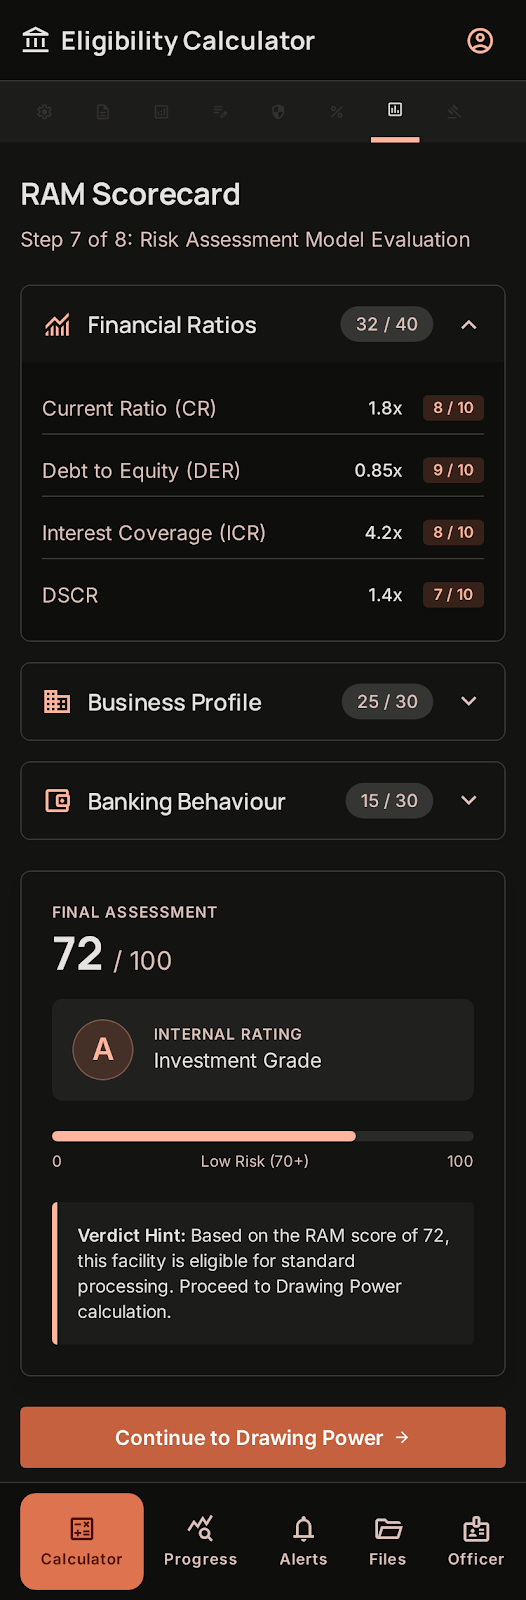
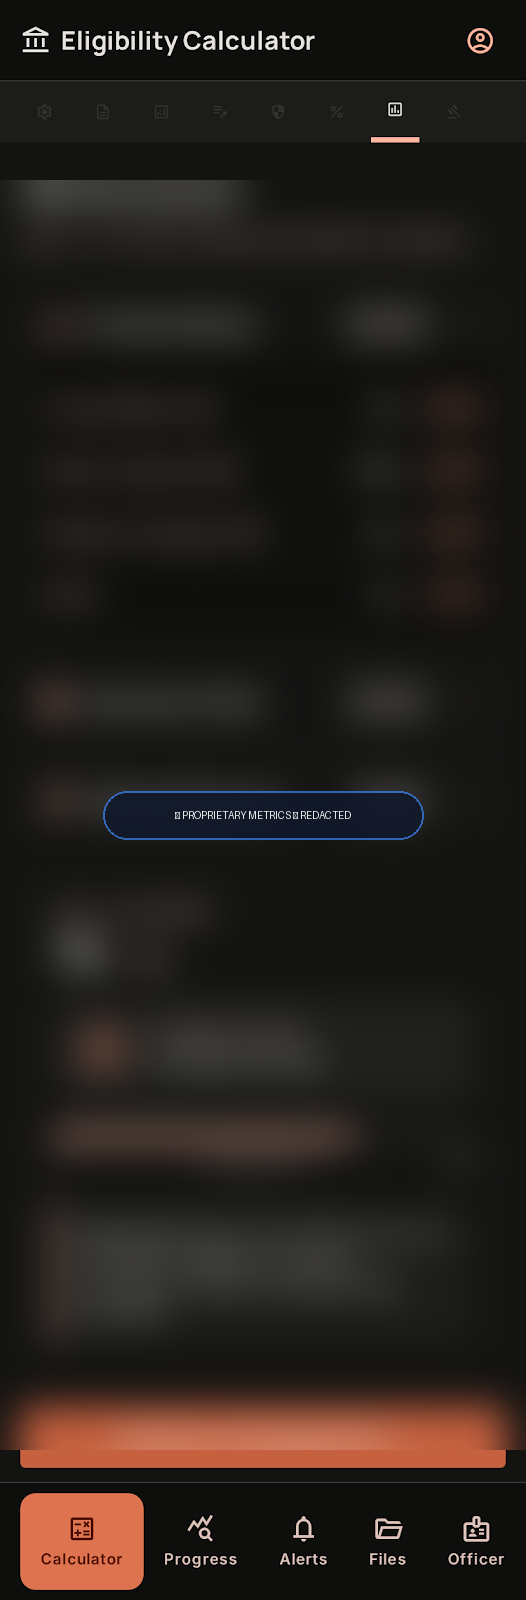
security: redact proprietary ratios and sanitize RAM scorecard details from screenshots and docs

diff --git a/docs/UNDERWRITING_METHODOLOGY.md b/docs/UNDERWRITING_METHODOLOGY.md
@@ -1,85 +1,85 @@
-# 📐 Underwriting & Credit Risk Scoring Methodology
+# 📐 Underwriting & Credit Risk Scoring Framework
 
-## **Mathematical Framework & Regulatory Credit Appraisal Architecture**
+## **Institutional Commercial Credit Appraisal Architecture**
+
+> [!IMPORTANT]
+> **Confidential & Proprietary Framework**  
+> Exact mathematical weights, proprietary multi-factor ratio deduction algorithms, scoring thresholds, and calibrated risk rubrics are confidential intellectual property. This document provides a high-level overview of the underwriting dimensions evaluated by the engine.
 
 ---
 
-## 1. The 100-Point Financial-Statement-Driven RAM Scorecard
+## 1. Credit Risk Assessment Model (RAM) Architecture
 
-The platform employs a deterministic 100-point credit risk model calibrated exclusively on audited financial statements, solvency metrics, and fundamental business efficiency.
+The platform evaluates commercial borrowers across three core quantitative pillars derived from multi-year audited financial statements:
 
 ```
-Total RAM Score = [ Financial Performance (60 pts) ] + [ Capital Structure & Solvency (25 pts) ] + [ Business Fundamentals (15 pts) ]
+Total Credit Assessment = [ Pillar 1: Financial Performance & Cash Flow ] 
+                         + [ Pillar 2: Capital Structure & Solvency ] 
+                         + [ Pillar 3: Business Fundamentals & Operating Efficiency ]
 ```
 
 ---
 
-### Category 1: Financial Performance & Cash Flow (60 Points Max)
+### Pillar 1: Financial Performance & Cash Flow
+*Focuses on operational profitability, debt servicing adequacy, and cash generation capability.*
 
-| Parameter | Formula / Basis | Max Points | Optimal Benchmark | Risk Deduction Logic |
-| :--- | :--- | :---: | :--- | :--- |
-| **Current Ratio (CR)** | $\text{Current Assets} / \text{Current Liabilities}$ | **10 pts** | $\ge 1.33$ | $1.20 - 1.33 \rightarrow 7\text{ pts}$, $1.00 - 1.20 \rightarrow 4\text{ pts}$, $< 1.00 \rightarrow 0\text{ pts}$ |
-| **Debt Service Coverage Ratio (DSCR)** | $\frac{\text{PAT} + \text{Deprec.} + \text{Interest}}{\text{Principal Repayment} + \text{Interest}}$ | **10 pts** | $\ge 1.75$ | $1.50 - 1.75 \rightarrow 8\text{ pts}$, $1.20 - 1.50 \rightarrow 5\text{ pts}$, $< 1.20 \rightarrow 0\text{ pts}$ |
-| **Operating Profit Margin (OPM)** | $\text{EBITDA} / \text{Revenue} \times 100$ | **10 pts** | $\ge 15\%$ | $10\% - 15\% \rightarrow 7\text{ pts}$, $5\% - 10\% \rightarrow 4\text{ pts}$, $< 5\% \rightarrow 0\text{ pts}$ |
-| **Interest Service Coverage (ISCR)** | $\text{EBIT} / \text{Interest Expense}$ | **10 pts** | $\ge 3.0$ | $2.0 - 3.0 \rightarrow 7\text{ pts}$, $1.5 - 2.0 \rightarrow 4\text{ pts}$, $< 1.5 \rightarrow 0\text{ pts}$ |
-| **Revenue Growth & 3Y CAGR** | $(\text{Rev}_{FY} - \text{Rev}_{FY-1}) / \text{Rev}_{FY-1}$ | **8 pts** | $\ge 15\%$ | $8\% - 15\% \rightarrow 5\text{ pts}$, $0\% - 8\% \rightarrow 3\text{ pts}$, Negative $\rightarrow 0\text{ pts}$ |
-| **Return on Capital Employed (ROCE)** | $\text{EBIT} / (\text{Total Assets} - \text{Current Liabilities})$ | **7 pts** | $\ge 18\%$ | $12\% - 18\% \rightarrow 5\text{ pts}$, $8\% - 12\% \rightarrow 3\text{ pts}$, $< 8\% \rightarrow 0\text{ pts}$ |
-| **CFO to Total Debt** | $\text{Cash Flow from Operations} / \text{Total Debt}$ | **5 pts** | $\ge 25\%$ | $15\% - 25\% \rightarrow 3\text{ pts}$, $< 15\% \rightarrow 0\text{ pts}$ |
+- **Liquidity Health:** Multi-tier liquidity assessment evaluating short-term obligation coverage and buffer against working capital shocks.
+- **Debt Service Capability:** Comprehensive coverage analysis evaluating operating cash flows against principal amortization and interest service liabilities.
+- **Operating Profitability & Margins:** Trend analysis of operating profit margins (EBITDA), revenue quality, and gross profitability.
+- **Revenue Trajectory & Growth:** Multi-year compound annual growth rate (CAGR) and year-on-year expansion velocity.
+- **Capital Return Efficiency:** Assessment of return on capital employed (ROCE) and asset efficiency.
+- **Operating Cash Flow Quality:** Quality of earnings assessment comparing cash flow from operations (CFO) against total financial debt.
 
 ---
 
-### Category 2: Capital Structure & Solvency (25 Points Max)
+### Pillar 2: Capital Structure & Solvency
+*Focuses on balance sheet leverage, capital adequacy, and long-term financial stability.*
 
-| Parameter | Formula / Basis | Max Points | Optimal Benchmark | Risk Deduction Logic |
-| :--- | :--- | :---: | :--- | :--- |
-| **TOL / ATNW** | $\text{Total Outside Liabilities} / \text{Adjusted Tangible Net Worth}$ | **10 pts** | $\le 2.50$ | $2.50 - 3.50 \rightarrow 7\text{ pts}$, $3.50 - 4.50 \rightarrow 3\text{ pts}$, $> 4.50 \rightarrow 0\text{ pts}$ |
-| **Debt to Equity Ratio** | $\text{Total Long-Term Debt} / \text{Tangible Net Worth}$ | **6 pts** | $\le 1.50$ | $1.50 - 2.50 \rightarrow 4\text{ pts}$, $> 2.50 \rightarrow 0\text{ pts}$ |
-| **Net Worth Buffer** | Absolute Tangible Net Worth (ATNW) | **5 pts** | $\ge ₹10\text{ Cr}$ | $₹5\text{Cr} - ₹10\text{Cr} \rightarrow 3\text{ pts}$, $< ₹5\text{Cr} \rightarrow 1\text{ pt}$ |
-| **Debt to EBITDA Multiple** | $\text{Total Debt} / \text{EBITDA}$ | **4 pts** | $\le 3.0\times$ | $3.0\times - 4.5\times \rightarrow 2\text{ pts}$, $> 4.5\times \rightarrow 0\text{ pts}$ |
-
----
-
-### Category 3: Business Fundamentals & Operating Efficiency (15 Points Max)
-
-| Parameter | Formula / Basis | Max Points | Optimal Benchmark | Risk Deduction Logic |
-| :--- | :--- | :---: | :--- | :--- |
-| **Debtor Collection Days** | $(\text{Trade Receivables} / \text{Revenue}) \times 365$ | **5 pts** | $\le 60\text{ Days}$ | $60 - 90\text{ Days} \rightarrow 3\text{ pts}$, $> 90\text{ Days} \rightarrow 0\text{ pts}$ |
-| **Inventory Holding Days** | $(\text{Inventory} / \text{COGS}) \times 365$ | **4 pts** | $\le 60\text{ Days}$ | $60 - 90\text{ Days} \rightarrow 2\text{ pts}$, $> 90\text{ Days} \rightarrow 0\text{ pts}$ |
-| **Fixed Asset Turnover** | $\text{Revenue} / \text{Net Fixed Assets}$ | **3 pts** | $\ge 4.0\times$ | $2.5\times - 4.0\times \rightarrow 2\text{ pts}$, $< 2.5\times \rightarrow 0\text{ pts}$ |
-| **Operating Cycle Efficiency** | $\text{Debtor Days} + \text{Inventory Days} - \text{Payable Days}$ | **3 pts** | $\le 90\text{ Days}$ | $90 - 120\text{ Days} \rightarrow 2\text{ pts}$, $> 120\text{ Days} \rightarrow 0\text{ pts}$ |
+- **Leverage Multiples:** Comprehensive assessment of outside liabilities relative to adjusted tangible net worth (ATNW).
+- **Gearing & Debt-to-Equity:** Evaluation of long-term debt burden relative to owner capital and equity cushions.
+- **Capital Buffer & Net Worth Strength:** Absolute tangible capital size and capacity to absorb unexpected market shocks.
+- **Debt-to-Operating Earnings:** Multiple of total debt obligations relative to annualized operating EBITDA.
 
 ---
 
-## 2. RAM Risk Grade Classification & Underwriting Directives
+### Pillar 3: Business Fundamentals & Operating Efficiency
+*Focuses on working capital management, cash conversion cycle, and asset utilization.*
 
-| Score Range | RAM Risk Grade | Risk Profile | Underwriting Decision & Covenants |
-| :---: | :--- | :--- | :--- |
-| **80 – 100** | **RAM-1** | Minimal Risk / Prime | **Recommended for Approval**. Eligible for prime lending rates; standard security covenants. |
-| **65 – 79** | **RAM-2** | Low to Moderate Risk | **Recommended for Approval**. Standard pricing; quarterly compliance monitoring. |
-| **50 – 64** | **RAM-3** | Moderate Risk | **Conditional Approval**. Minimum 100% SARFAESI collateral cover; personal promoter guarantee required. |
-| **35 – 49** | **RAM-4** | High Risk | **Credit Committee Escalation**. Requires additional collateral cover ($\ge 125\%$) and monthly drawing power audits. |
-| **< 35** | **RAM-5** | Critical Risk | **Decline / Ineligible**. Fundamental financial weakness or excessive leverage. |
+- **Debtor Velocity & Collection Efficiency:** Assessment of receivables velocity, collection cycles, and customer concentration risk.
+- **Inventory Turnover & Holding Efficiency:** Evaluation of inventory days relative to industry operating norms.
+- **Fixed Asset Productivity:** Operating revenue generated per unit of net fixed productive assets.
+- **Operating Cash Cycle:** Net working capital cycle duration from raw material procurement to cash realization.
 
 ---
 
-## 3. Working Capital & MPBF Engine (Tandon Method II)
+## 2. Risk Grading & Underwriting Directives
 
-The platform evaluates the **Maximum Permissible Bank Finance (MPBF)** according to Reserve Bank of India (RBI) Tandon Committee guidelines:
+The engine maps borrowers into standard institutional credit risk tiers with automated policy recommendations:
 
-$$\text{Working Capital Gap (WCG)} = \text{Total Current Assets (TCA)} - \text{Other Current Liabilities (OCL)}$$
+| Risk Classification | Risk Profile | Underwriting Action |
+| :---: | :--- | :--- |
+| **Tier 1 (Prime)** | Superior financial health, strong solvency, and robust cash flows. | **Recommended for Approval**. Eligible for prime lending rates and standard security covenants. |
+| **Tier 2 (Good)** | Healthy financial ratios with manageable debt levels. | **Recommended for Approval**. Standard pricing with periodic covenant monitoring. |
+| **Tier 3 (Moderate)** | Acceptable credit profile with moderate leverage. | **Conditional Approval**. Enhanced collateralization and promoter guarantees stipulated. |
+| **Tier 4 (Elevated Risk)**| Financial stretch or high leverage detected. | **Credit Committee Escalation**. Requires additional security cover and enhanced monitoring. |
+| **Tier 5 (Critical Risk)**| Severe ratio deterioration or insolvency risk. | **Decline / Ineligible**. Outside standard risk tolerance thresholds. |
 
-$$\text{Minimum Stipulated Net Working Capital (NWC)} = 0.25 \times \text{Total Current Assets (TCA)}$$
+---
 
-$$\text{MPBF (Method II)} = \text{WCG} - \text{Stipulated NWC} = \text{WCG} - (0.25 \times \text{TCA})$$
+## 3. Working Capital & MPBF Assessment (Regulatory Model)
 
-$$\text{Assessed Bank Finance} = \min(\text{MPBF Method II}, \text{Borrower Requested Facility})$$
+The platform evaluates the **Maximum Permissible Bank Finance (MPBF)** according to established regulatory banking norms (Tandon Committee Method II & Turnover Methodologies):
+
+- **Working Capital Gap (WCG):** Evaluated from total current assets less non-bank current liabilities.
+- **Stipulated Net Working Capital (NWC):** Mandatory borrower margin requirement calculated against current asset base.
+- **Assessed Bank Finance:** Deterministic calculation ensuring bank exposure complies strictly with regulatory caps and drawing power limits.
 
 ---
 
 ## 4. Intelligent Schedule Completeness & Fallback Engine
 
-Audited financial reports often arrive with missing schedule annexures (e.g., Debtor Aging Schedule or Inventory Breakdown). Instead of rejecting the application or stalling the underwriter, the engine:
+Audited financial reports frequently arrive with missing schedule annexures. The engine incorporates a resilient fallback framework:
 
-1. **Detects Missing Schedules:** Automatically identifies whether Debtor Schedule, Inventory Schedule, or Fixed Asset Schedule are attached.
-2. **Activates Mathematical Fallback:** Derives debtor velocity from aggregate Balance Sheet trade receivables and revenue.
-3. **Contextual Flagging:** Generates a highlighted recommendation inside the Credit Appraisal Memo (CAM) requesting the underwriter obtain the schedule prior to final loan disbursement.
+1. **Automated Completeness Detection:** Identifies which audited schedules (Debtor Aging, Inventory, Fixed Assets) are attached.
+2. **Deterministic Mathematical Fallbacks:** Uses aggregate balance sheet line items to maintain appraisal continuity without stalling underwriters.
+3. **Contextual Policy Flags:** Generates highlight flags in the final Credit Appraisal Memo (CAM) requesting document submission prior to final loan disbursement.

diff --git a/README.md b/README.md
@@ -119,16 +119,16 @@ flowchart TD
 
 ---
 
-## 🌟 The 100-Point RAM Scorecard Framework
+## 🌟 Proprietary Credit Risk Model (RAM Architecture)
 
-Unlike subjective credit scorecards, our model relies on verified audited financial figures:
+The platform evaluates borrowers across three quantitative pillars derived from multi-year audited financial statements:
 
-| Category | Weight | Key Parameters Evaluated |
-| :--- | :---: | :--- |
-| **Financial Performance & Cash Flow** | **60 Points** | Current Ratio (10 pts), DSCR (10 pts), Operating Profit Margin (10 pts), ISCR (10 pts), Revenue Growth (8 pts), ROCE (7 pts), CFO to Debt (5 pts). |
-| **Capital Structure & Solvency** | **25 Points** | TOL / ATNW (10 pts), Debt-to-Equity (6 pts), Tangible Net Worth Buffer (5 pts), Debt-to-EBITDA Multiple (4 pts). |
-| **Business Fundamentals & Efficiency** | **15 Points** | Debtor Days (5 pts), Inventory Days (4 pts), Fixed Asset Turnover (3 pts), Operating Cycle Efficiency (3 pts). |
-| **Total Benchmark** | **100 Points** | **RAM-1 (80-100)** • **RAM-2 (65-79)** • **RAM-3 (50-64)** • **RAM-4 (35-49)** • **RAM-5 (<35)** |
+| Assessment Pillar | Core Underwriting Focus | Evaluation Dimension |
+| :--- | :--- | :--- |
+| **Financial Performance & Cash Flow** | Operating Profitability, Debt Servicing & Cash Adequacy | Evaluates liquidity buffers, debt service coverage, operating margins, earnings quality, and cash generation velocity. |
+| **Capital Structure & Solvency** | Leverage, Capital Adequacy & Balance Sheet Strength | Evaluates outside liability gearing, adjusted tangible net worth depth, debt-to-equity ratios, and debt burden multiples. |
+| **Business Fundamentals & Efficiency** | Working Capital Management & Asset Turnover | Evaluates receivables velocity, inventory holding efficiency, fixed asset productivity, and net operating cycle duration. |
+| **Risk Grading Model** | **Tier 1 (Prime) ➔ Tier 5 (Critical Risk)** | Automated mapping into standardized credit risk grades with actionable sanction covenants and pricing directives. |
 
 ---
 

diff --git a/docs/PRODUCT_ONE_PAGER.md b/docs/PRODUCT_ONE_PAGER.md
@@ -20,7 +20,7 @@ Commercial loan underwriting for SMEs and mid-market enterprises takes **14 to 2
 
 | Capability | What It Does | Business Impact |
 | :--- | :--- | :--- |
-| **100-Point RAM Scorecard** | Calibrated scoring model across Financial Performance (60 pts), Capital Structure (25 pts), and Business Fundamentals (15 pts). | Objective, standardized, and auditable credit risk rating (RAM 1 to RAM 5). |
+| **Proprietary RAM Scorecard** | Calibrated scoring model across Financial Performance, Capital Structure, and Business Fundamentals. | Objective, standardized, and auditable credit risk rating (Tier 1 to Tier 5). |
 | **Multi-Year Financial Diagnostics** | 3-year comparative balance sheet & P&L spreading with real-time accounting balance validation. | 100% elimination of calculation errors and instant ratio trend detection. |
 | **Schedule Completeness & Fallback Engine** | Granular extraction of CWIP, Intangibles, Trade Payables, and schedule tracking (Debtor Aging, Inventory, Fixed Assets). | Prevents deal roadblocks; provides smart fallback scores with contextual advice. |
 | **Regulatory MPBF Working Capital** | Implements Tandon Committee Method II, Net Working Capital (NWC) gaps, and Drawing Power computations. | Eliminates regulatory non-compliance in working capital sanction limits. |

diff --git a/docs/INVESTOR_PITCH_DECK.md b/docs/INVESTOR_PITCH_DECK.md
@@ -39,7 +39,7 @@ Commercial credit appraisal for SMEs and mid-market corporates remains heavily m
 An institutional-grade credit appraisal suite that automates the end-to-end commercial underwriting lifecycle:
 
 1. **Automated Multi-Year Financial Spreading:** Instantly extracts Balance Sheet, P&L, and Granular Schedules (Debtors, Inventory, Fixed Assets, CWIP, Debt profile) across FY-2, FY-1, and FY.
-2. **100-Point Calibrated RAM Scorecard:** Evaluates borrowers strictly across Financial Performance (60 pts), Capital Structure & Solvency (25 pts), and Business Fundamentals (15 pts).
+2. **Proprietary Multi-Pillar RAM Scorecard:** Evaluates borrowers across Financial Performance & Cash Flow, Capital Structure & Solvency, and Business Fundamentals & Efficiency.
 3. **Regulatory Working Capital (MPBF) Engine:** Implements Tandon Committee Method II & Turnover Method for precise drawing power and working capital assessment.
 4. **Instant Boardroom CAM Generation:** Generates comprehensive, exportable Credit Appraisal Memos and credit verdicts with a complete verifiable audit trail.
 
